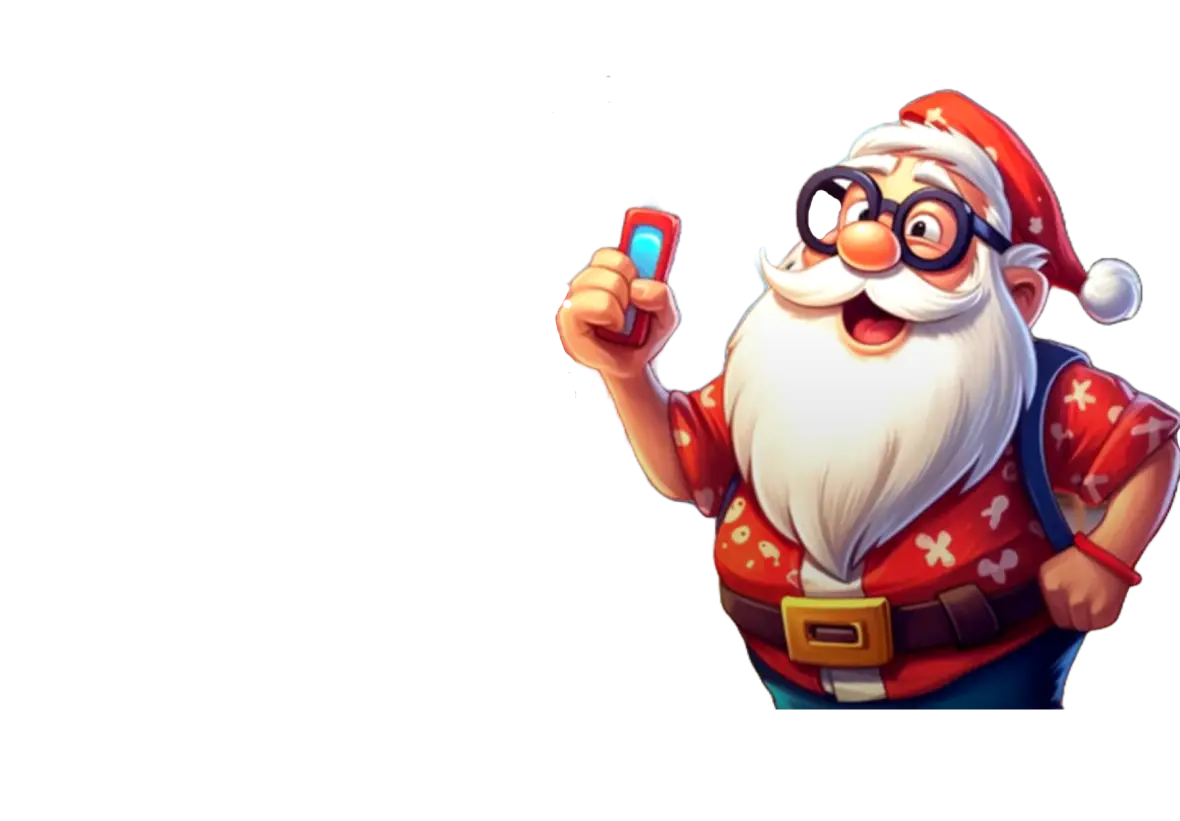
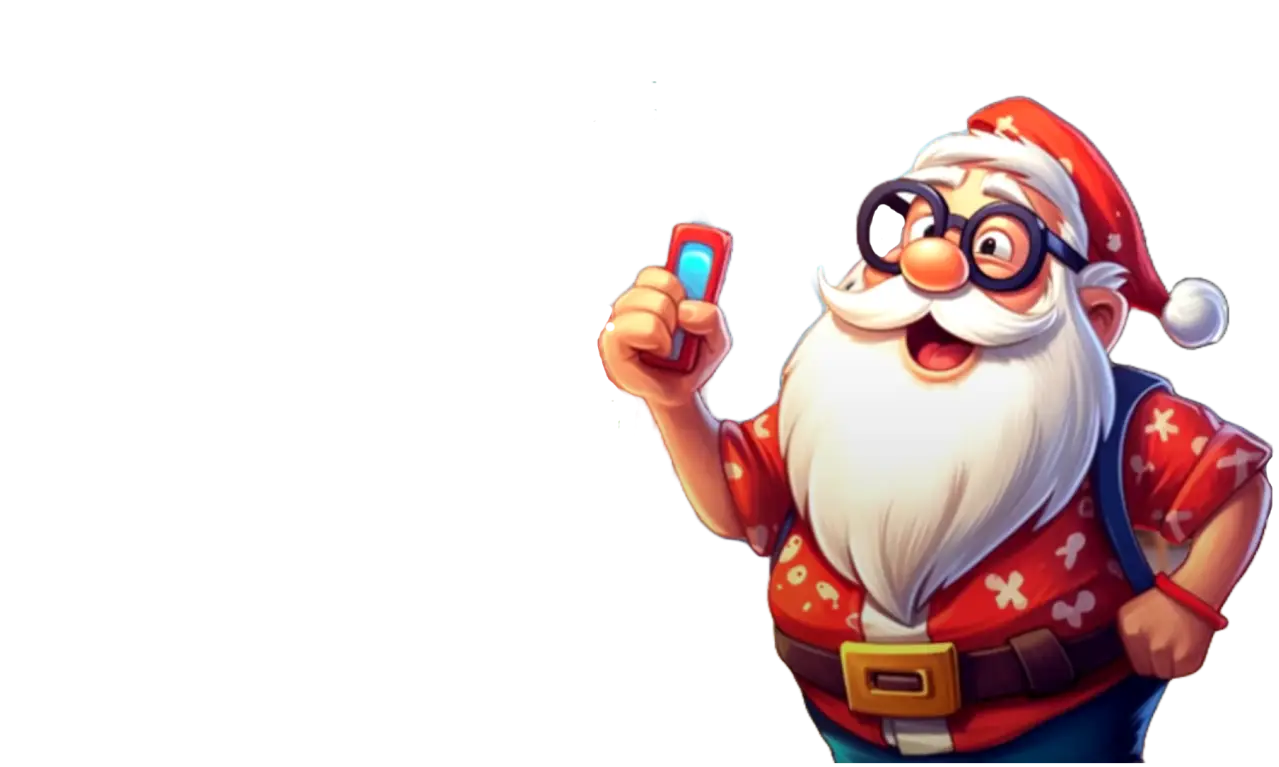
pool

Changed region(s): [[0.4576, 0.09, 1.0, 1.0]]

diff --git a/src/scss/hero.scss b/src/scss/hero.scss
@@ -1,0 +1,32 @@
+.hero {
+  padding-top: 94px;
+  padding-bottom: 262px;
+  background-image: url('./../img/hero_bg.webp'), url('./../img/hero_dear.webp');
+  background-repeat: no-repeat;
+  background-position: bottom, bottom;
+  background-size: 436px 334px, 320px 291px;
+}
+
+.hero_title {
+  margin: 0 auto 16px auto;
+  width: 192px;
+  text-align: center;
+  font-family: 'Bebas Neue';
+  font-weight: 400;
+  @include font(32, 40);
+  letter-spacing: 0.384px;
+}
+
+.hero_description {
+  margin-bottom: 16px;
+  @include font(22, 32);
+}
+
+.hero_link {
+  display: flex;
+  justify-content: center;
+}
+
+.hero_icon {
+  background-color: black;
+}

diff --git a/src/partials/hero.html b/src/partials/hero.html
@@ -1,3 +1,16 @@
 <section class="hero">
-  <h1>Hero</h1>
+  <div class="container">
+    <h1 class="hero_title">His Vacation: Fun Match 3 Game</h1>
+    <p class="hero_description">Puzzle, play, heal—every pet's dream!</p>
+    <a
+      href="https://play.google.com/store/apps/details?id=com.mobowl.christmasmagic.aos"
+      target="_blank"
+      rel="noopener noreferrer nofollow"
+      class="hero_link"
+    >
+      <svg width="120" height="40" class="hero_icon">
+        <use href="./img/sprite.svg#icon-google_play"></use>
+      </svg>
+    </a>
+  </div>
 </section>
